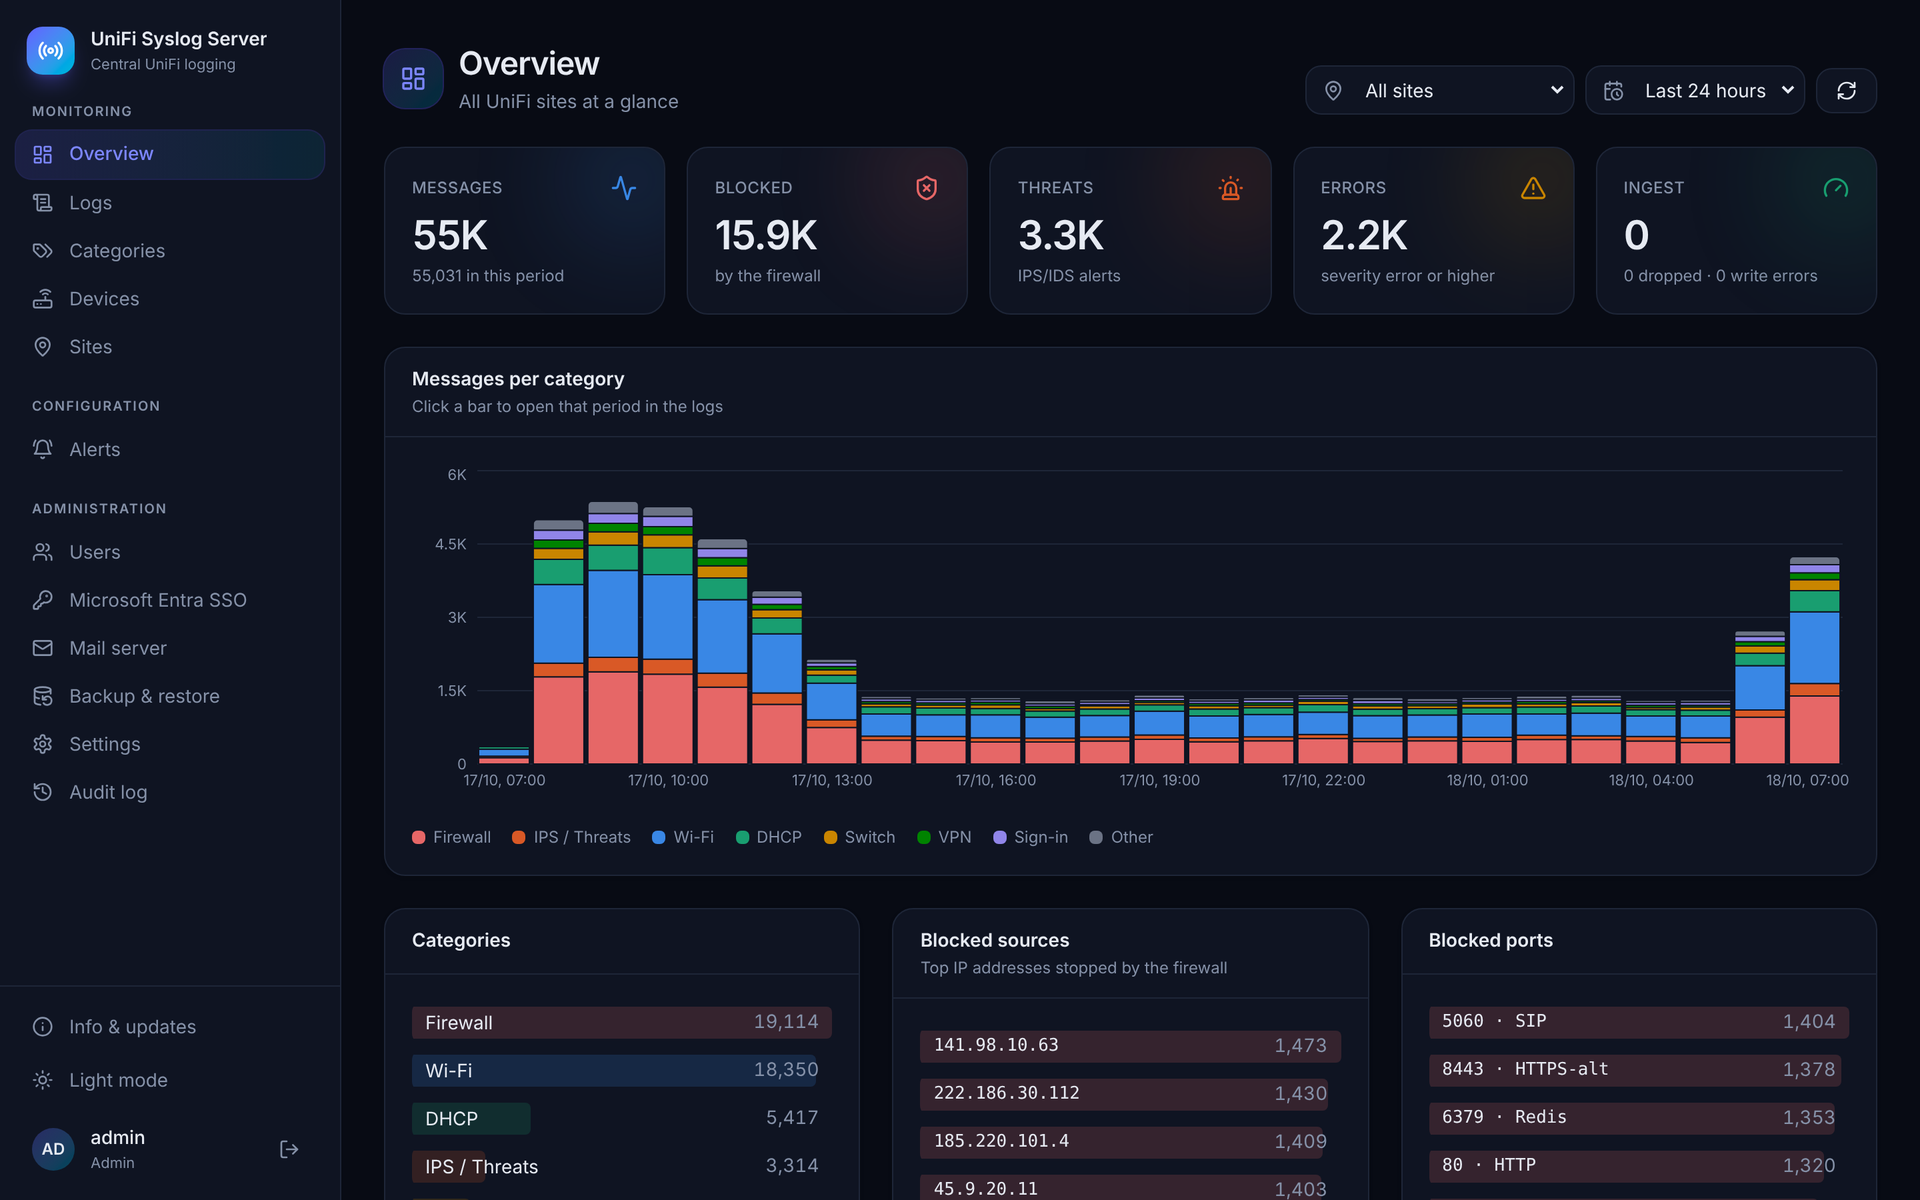
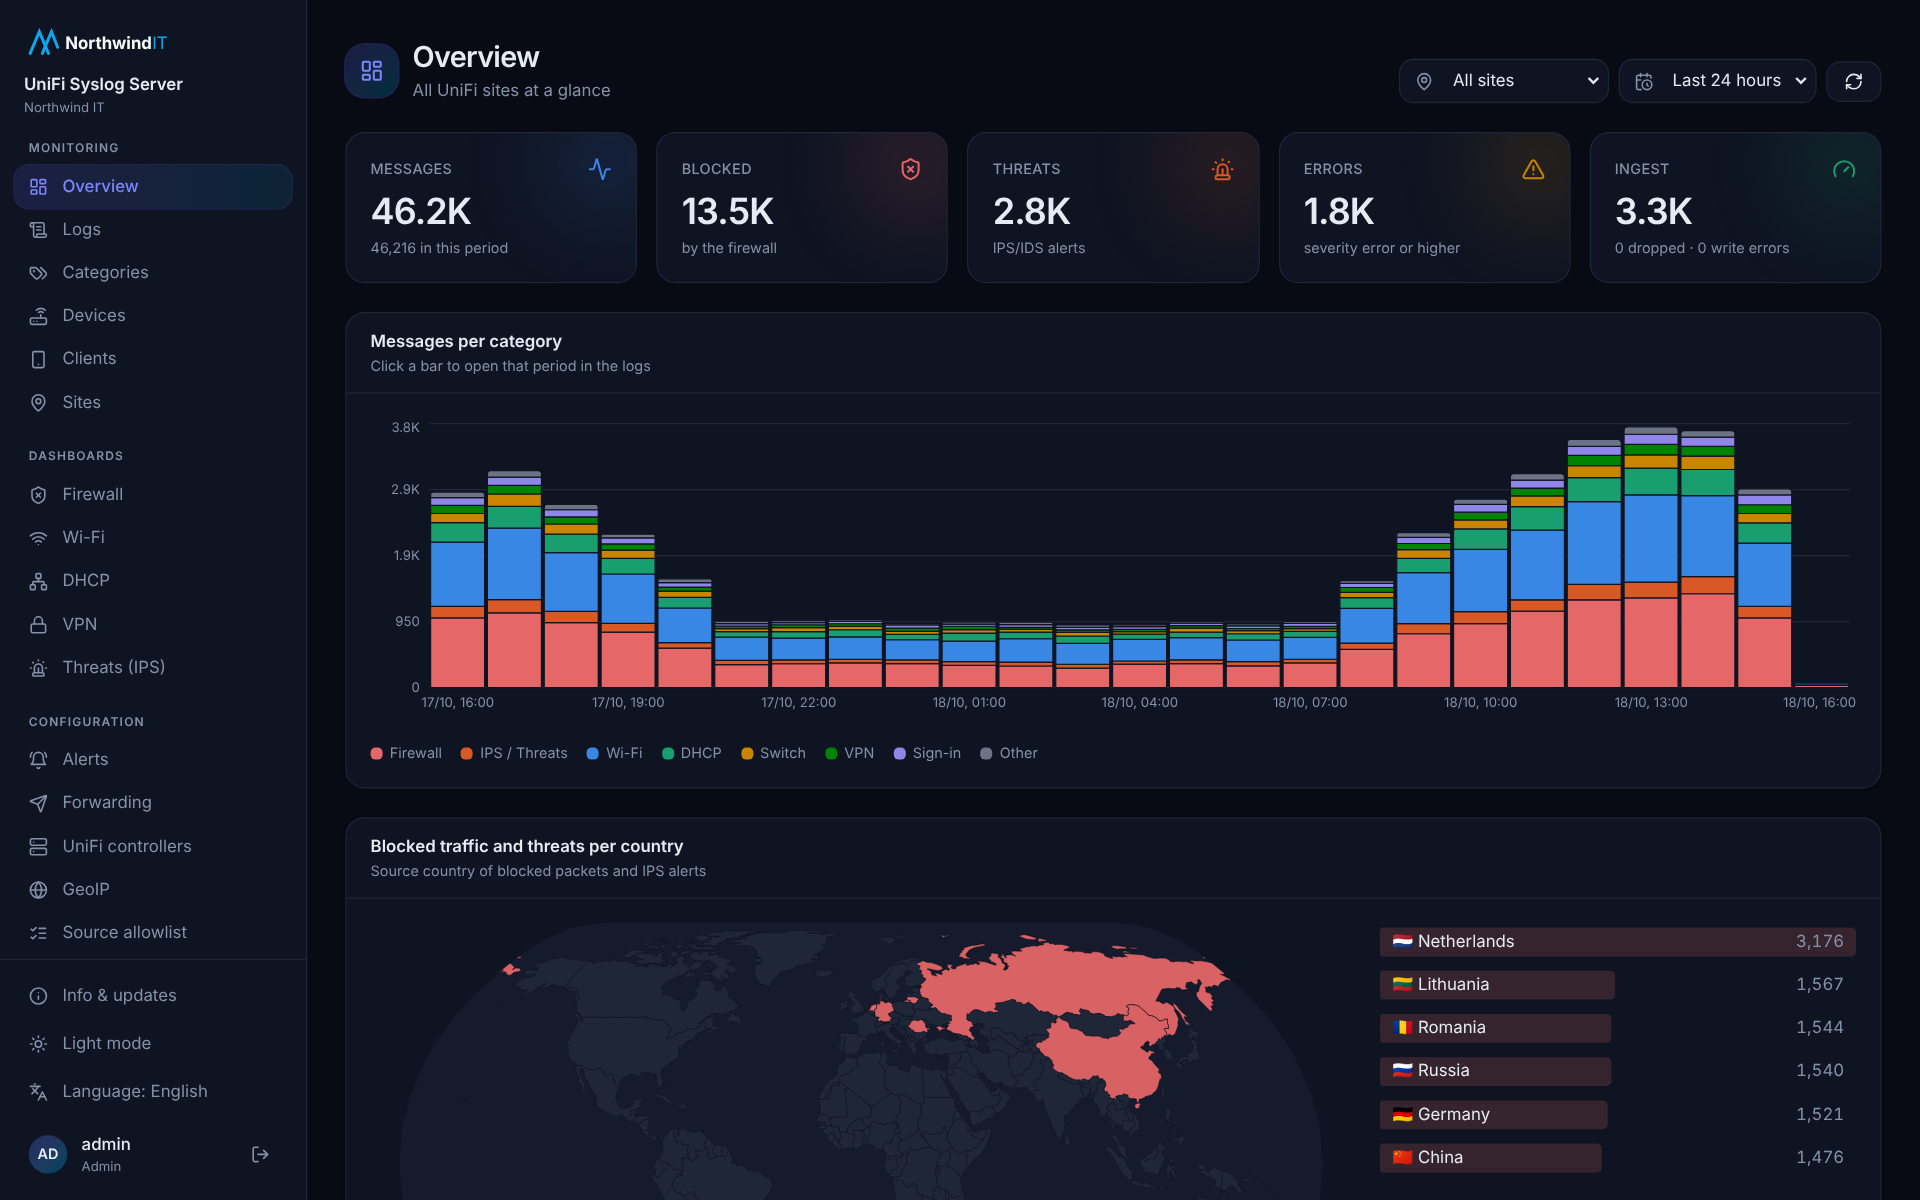
Document all current features in the README with fresh screenshots
Adds a feature overview, an expanded forwarding section (destinations,
filters, reliable delivery, ready-made content) and a feature tour with
new screenshots of every page, taken from simulated traffic of four sites.

Claude-Session: https://claude.ai/code/session_01B3npEG5xe1oDYF5cGAvGyE

diff --git a/README.md b/README.md
@@ -1,48 +1,143 @@
 # UniFi Syslog Server
 
-A central syslog server built specifically for UniFi. All UniFi sites send their syslog to one server, which recognizes firewall, IPS, Wi-Fi, DHCP, DNS, VPN, switch and management messages, enriches them with fields (source, destination, port, rule, client, SSID…) and makes them searchable and visible in a dashboard.
+A central syslog server built specifically for UniFi. All UniFi sites send their syslog to one server, which recognizes firewall, IPS, Wi-Fi, DHCP, DNS, VPN, switch, Protect, Access and management messages, enriches them with names, GeoIP and site information, and makes them searchable in ready-made dashboards. Selected events can be forwarded to **Microsoft Sentinel**, **Elastic**, **Splunk**, **Graylog** and other tools.
 
-- **Receiver**: UDP and TCP on port 514 (RFC3164, RFC5424, RFC6587 framing).
+![Overview dashboard](docs/screenshots/dashboard.png)
+
+**Contents**: [Features](#features) · [Forwarding to Sentinel, Elastic and other tools](#forwarding-to-sentinel-elastic-and-other-tools) · [Feature tour](#feature-tour) · [Installation](#installation) · [Configuring UniFi](#configuring-unifi) · [Users, roles and security](#users-roles-and-security) · [Query language](#query-language) · [Branding](#branding) · [Languages](#languages) · [Backup and restore](#backup-and-restore) · [Updates](#updates-release-channels-and-rollback) · [Command line](#command-line) · [Building from source](#building-from-source) · [Architecture](#architecture)
+
+## Features
+
+**Collect and understand**
+
+- **Receiver**: UDP and TCP on port 514 (RFC3164, RFC5424, RFC6587 framing), with an optional [source allowlist](#users-roles-and-security).
 - **UniFi parser**: device name `model,mac,version`, iptables rule tags (`WAN_IN-D-3001`, `DESCR="..."`), CEF from UniFi Network SIEM, hostapd/stahtd, dnsmasq/kea DHCP, DNS, Suricata IPS, WireGuard/OpenVPN/IPsec, SSH logins, switch ports and `EVT_*` controller codes. UniFi Protect (cameras, smart detections, doorbells), UniFi Access (doors, granted and denied access) and UniFi OS system events (CEF) get their own categories.
 - **UniFi Network API**: connect one or more consoles with an API key. Client and device names are attached to log lines, so you see "Alex's iPhone" and "AP Attic" instead of MAC addresses. Without a controller, names are learnt from DHCP logs. All known names are listed under **Clients**.
 - **GeoIP**: country and AS number (provider) of external IP addresses from DB-IP Lite (no account) or MaxMind GeoLite2, updated automatically, with a world map on the dashboards.
-- **Ready-made dashboards**: Firewall, Wi-Fi (roaming and connection problems), DHCP, VPN (WireGuard, Teleport and site-to-site) and IPS threats.
 - **Storage**: ClickHouse (columnar storage, compression, billions of rows), daily partitions and a configurable retention period. Metadata in SQLite.
-- **Dashboard**: messages per category, blocked sources and ports, IPS signatures, Wi-Fi clients, SSIDs, DHCP clients, devices and sites. Click through to the logs.
-- **Search**: a dedicated query language with fields, CIDR, ranges and wildcards, live tail, and export to CSV and JSON.
-- **Categories**: create your own categories (a saved search with a color) to filter logs.
+
+**Look and search**
+
+- **Overview dashboard**: messages per category, blocked traffic and threats per country, blocked sources and ports, IPS signatures, Wi-Fi clients, SSIDs, DHCP clients, devices and sites. Click through to the logs.
+- **Ready-made dashboards**: Firewall, Wi-Fi (roaming and connection problems), DHCP, VPN (WireGuard, Teleport and site-to-site) and Threats (IPS), each filterable per site and period.
+- **Search**: a dedicated [query language](#query-language) with fields, CIDR, ranges and wildcards, a histogram, live tail, and export to CSV and JSON.
+- **Categories**: your own categories (a saved search with a color) to filter logs, with counters on the Categories page.
+
+**Sites and devices**
+
 - **Sites**: map source IPs to a site, manually or via IP ranges. Sites behind NAT work too. An overview shows, per site, the status, devices and logs, blocks, IPS alerts and errors of the last 24 hours.
-- **Devices**: a persistent inventory of all UniFi devices (by MAC address, so also behind NAT), with a custom name and notes, firmware per model and updated firmware. Devices that have not sent logs for too long are marked as *silent* and, optionally, reported by email, as is their return. **Firmware warnings** flag devices that run older firmware than other devices of the same model, or for which UniFi Network offers an update, optionally by email.
-- **Alerts**: email when a search exceeds a threshold, and optionally an alert record to Microsoft Sentinel or another forwarding destination.
-- **Forwarding**: send selected events to **Microsoft Sentinel** (Logs Ingestion API with a data collection rule, into `UnifiSyslog_CL` or firewall and IPS into `CommonSecurityLog`), **Elasticsearch / Elastic Cloud / OpenSearch** (Bulk API into a data stream, Elastic Common Schema), **Logstash**, **syslog** (RFC 5424 or CEF over UDP, TCP or TLS for Graylog, Wazuh, QRadar…), **Splunk HEC** or a JSON **webhook**. Per destination: filters by category, site, device, severity and saved search; batching, an on-disk queue and automatic retries; a status page with volume, errors and estimated daily cost. Ready-made Sentinel and Kibana content is included, see [docs/FORWARDING.md](docs/FORWARDING.md).
+- **Devices**: a persistent inventory of all UniFi devices (by MAC address, so also behind NAT), with a custom name and notes, firmware per model and updated firmware. Devices that have not sent logs for too long are marked as *silent* and, optionally, reported by email, as is their return.
+- **Firmware warnings** flag devices that run older firmware than other devices of the same model, or for which UniFi Network offers an update, optionally by email.
+
+**Act on events**
+
+- **Forwarding** to Microsoft Sentinel, Elasticsearch / Elastic Cloud / OpenSearch, Logstash, syslog (Graylog, Wazuh, QRadar…), Splunk HEC and JSON webhooks, with per-destination filters, an on-disk queue, retries, volume and cost statistics, and ready-made Sentinel and Kibana content. See [below](#forwarding-to-sentinel-elastic-and-other-tools).
+- **Alerts**: email when a search exceeds a threshold within a time window, and optionally an alert record to Microsoft Sentinel or another forwarding destination.
+
+**Administration and security**
+
 - **Microsoft Entra SSO** (OIDC + PKCE), with Entra groups mapped to roles and sites automatically.
 - **Roles and permissions**: administrator, analyst and read-only viewer, each limited to one or more sites if you want, so customers or branch offices only see their own logs.
-- **Security**: two-factor authentication (TOTP) for local accounts, optionally mandatory; a source allowlist that only accepts syslog from known IP addresses or networks; an audit log of who viewed, changed, exported or restored what.
-- **REST API**: personal API tokens (read-only or read and write) for scripts and integrations, see [docs/API.md](docs/API.md).
+- **Two-factor authentication** (TOTP) for local accounts, optionally mandatory, with recovery codes.
+- **Source allowlist** that only accepts syslog from known IP addresses or networks, and lists rejected senders.
+- **Audit log** of who signed in, viewed, changed, exported or restored what.
+- **REST API** with personal API tokens (read-only or read and write) for scripts and integrations, see [docs/API.md](docs/API.md).
 - **Mail**: your own SMTP server with STARTTLS or TLS, minimum TLS 1.2/1.3, and PLAIN, LOGIN, CRAM-MD5, SCRAM-SHA-256 or OAuth2 (Microsoft 365).
 - **Backup**: full and incremental backups to FTP, FTPS, SCP or a local folder, with scheduling, retention policy and restore from the remote location.
 - **Branding**: your company name and logo (separate light and dark mode variants) and favicon in the menu, on the sign-in page and in e-mails.
-- **Languages**: English and Dutch. Each user picks their own language; Entra SSO users get the language of their Microsoft account. E-mails are sent in the language of the recipient.
-- **Updates**: the Info button shows the version, checks for updates and installs them from the interface. Choose the **Production** channel (stable releases) or **Test** (pre-releases such as `v0.4.0-beta.1`), and roll back to a previous version with one click.
-- The web interface runs on **port 8080**.
+- **Languages**: English and Dutch, per user. Entra SSO users get the language of their Microsoft account. E-mails are sent in the language of the recipient.
+- **Updates**: the Info button shows the version, checks for updates and installs them from the interface. Choose the **Production** channel (stable releases) or **Test** (pre-releases), and roll back to a previous version with one click.
+- **Deployment**: a Proxmox LXC script (Debian 13) and an installer for Debian 13 VMs and physical servers. The web interface runs on **port 8080**.
 
 See the [roadmap](ROADMAP.md) for what is planned next.
 
-## Screenshots
+## Forwarding to Sentinel, Elastic and other tools
 
-![Overview dashboard](docs/screenshots/dashboard.png)
+UniFi Syslog Server can send a filtered copy of your UniFi events to the security and log tools you already use, in parallel with storing them locally. Add destinations under **Configuration → Forwarding**.
+
+![Forwarding page with five destinations](docs/screenshots/forwarding.png)
+
+The page shows, per destination, the events and bytes of the last 24 hours, the estimated volume per day (and, with a price per GB, the estimated monthly cost), the queue, errors, the last delivery and a 24-hour sparkline. The panel on the right offers the ready-made content for Sentinel, Elastic and Logstash as downloads.
+
+### Destinations
+
+| Destination | How it is sent | Format |
+|---|---|---|
+| **Microsoft Sentinel** | Azure Monitor Logs Ingestion API through a data collection endpoint and rule. Entra app registration with a client secret or certificate. | Custom table `UnifiSyslog_CL`; in *split* mode firewall and IPS events go to `CommonSecurityLog` |
+| **Elasticsearch / Elastic Cloud / OpenSearch** | Bulk API into a data stream (default `logs-unifi.syslog-default`), API key or basic auth. **Install index template** puts the mappings in place with one click. | Elastic Common Schema (ECS) |
+| **Logstash** | JSON lines over TCP or TLS, or a JSON array over HTTP | ECS |
+| **Syslog** | UDP, TCP or TLS, octet-counting (RFC 6587) or newline framing. For Graylog, Wazuh, QRadar, ArcSight and others. | RFC 5424 with structured data, or CEF |
+| **Splunk** | HTTP Event Collector (HEC) with a HEC token, index and sourcetype | JSON events |
+| **JSON webhook** | HTTPS POST of a JSON array, with your own headers (for example `Authorization`) | ECS or the app's native field names |
+
+![Choosing a destination type](docs/screenshots/forwarding-add.png)
+
+### Filters: send only what matters
+
+Each destination has its own filter. An event is forwarded only when it matches **all** parts:
+
+- **Categories** (firewall, IPS / threats, Wi-Fi, DHCP, switch, VPN, sign-in, admin, DNS, clients, devices, system, Protect, Access). None selected is all.
+- **Sites** and **devices** (hostname, MAC address or device name). Empty is all.
+- **Minimum severity**, for example *warning or worse*.
+- **Saved search**: one of your [categories](#features).
+- **Extra filter** in the [query language](#query-language), for example `-category:dns` or `country:RU`.
+
+Because only matching events leave the server, you only pay for relevant data in Sentinel or Elastic.
+
+| | |
+|---|---|
+| ![Microsoft Sentinel destination](docs/screenshots/forwarding-sentinel.png)<br>**Microsoft Sentinel**: tenant and client ID, client secret or certificate, the logs ingestion endpoint and DCR immutable ID, and the table mode. Here: firewall, IPS, VPN and sign-in events, with a price per GB for the cost estimate. | ![Elastic Cloud destination](docs/screenshots/forwarding-elastic.png)<br>**Elastic Cloud**: URL, API key and data stream, *Install index template*, and an extra filter that skips DNS. |
+| ![Syslog destination for Graylog](docs/screenshots/forwarding-syslog.png)<br>**Syslog to Graylog**: RFC 5424 over TCP with octet counting, only for two sites and only *warning or worse*. | ![Alert rules with forwarding destinations](docs/screenshots/alerts.png)<br>**Alerts** can send an alert record to Sentinel or a webhook as well as an e-mail. |
+
+### Reliable delivery
+
+- Every destination has its **own queue on disk** (`/var/lib/unify-syslog/forward/<id>`) and its own delivery loop, so a destination that is down never slows down ingestion or the other destinations. Events survive restarts and outages.
+- Events go out in **batches** that suit the destination, and failed sends are **retried** with exponential backoff (up to 5 minutes between attempts) until they succeed. A payload that is too large is split.
+- The **maximum queue size** is configurable per destination; beyond it the oldest events are dropped and counted.
+- **Send test event** checks the settings before you save them.
+
+### Ready-made content
+
+The [integrations](integrations) folder, also downloadable from the Forwarding page, contains:
+
+- **Microsoft Sentinel**: an ARM template for the custom table, data collection endpoint and rule (with the role assignment for the app), KQL hunting queries, a workbook and analytics rules.
+- **Elastic**: the index template (also installed with one click from the interface), Kibana saved objects (data view, searches, visualizations and a dashboard) and Elastic Security detection rules.
+- **Logstash**: a sample pipeline.
+
+See [docs/FORWARDING.md](docs/FORWARDING.md) for the setup per tool.
+
+## Feature tour
+
+The screenshots show simulated UniFi traffic from four sites (`unify-syslog simulate`), with the *Northwind IT* branding as an example.
+
+### Dashboards
 
 ![Firewall dashboard with GeoIP map](docs/screenshots/dashboard-firewall.png)
 
 | | |
 |---|---|
-| ![Logs and search](docs/screenshots/logs.png)<br>**Logs**: search with the query language, histogram, live tail and CSV/JSON export. | ![Sites](docs/screenshots/sites.png)<br>**Sites**: status per site over the last 24 hours, and sender-to-site mapping. |
-| ![Devices](docs/screenshots/devices.png)<br>**Devices**: inventory of gateways, switches and access points with firmware and silent-device monitoring. | ![Categories](docs/screenshots/categories.png)<br>**Categories**: saved searches with a color, used as filters. |
-| ![Backup and restore](docs/screenshots/backup.png)<br>**Backup & restore**: full and incremental backups to FTP, FTPS or SCP. | ![Info and updates](docs/screenshots/info.png)<br>**Info & updates**: current version, release channel, in-app update and rollback. |
-| ![Microsoft Entra SSO](docs/screenshots/sso.png)<br>**Microsoft Entra SSO** with group-to-role mapping. | ![Mail server](docs/screenshots/mail.png)<br>**Mail server**: your own SMTP server with modern TLS and authentication. |
-| ![Light mode](docs/screenshots/dashboard-light.png)<br>**Light mode**. | ![Sign in](docs/screenshots/login.png)<br>**Sign in** page. |
+| ![Wi-Fi dashboard](docs/screenshots/dashboard-wifi.png)<br>**Wi-Fi**: connections, roaming and the clients with connection problems. | ![Threats (IPS) dashboard](docs/screenshots/dashboard-ips.png)<br>**Threats (IPS)**: blocked and detected threats, severity and source countries. |
+| ![VPN dashboard](docs/screenshots/dashboard-vpn.png)<br>**VPN**: WireGuard, Teleport and site-to-site tunnels. | ![Light mode](docs/screenshots/dashboard-light.png)<br>**Light mode**, next to the default dark mode. |
 
-The screenshots show simulated UniFi traffic from four sites (`unify-syslog simulate`).
+### Logs, sites and devices
+
+| | |
+|---|---|
+| ![Logs and search](docs/screenshots/logs.png)<br>**Logs**: search with the query language, histogram, live tail and CSV/JSON export. | ![Sites](docs/screenshots/sites.png)<br>**Sites**: status per site over the last 24 hours, networks per site and sender mapping. |
+| ![Devices](docs/screenshots/devices.png)<br>**Devices**: inventory of gateways, switches and access points with firmware per model and silent-device monitoring. | ![Clients](docs/screenshots/clients.png)<br>**Clients**: names from UniFi Network or learnt from DHCP. |
+| ![Categories](docs/screenshots/categories.png)<br>**Categories**: saved searches with a color and a counter, used as filters. | ![GeoIP](docs/screenshots/geoip.png)<br>**GeoIP**: DB-IP Lite or MaxMind GeoLite2, updated automatically. |
+
+### Administration and security
+
+| | |
+|---|---|
+| ![Users](docs/screenshots/users.png)<br>**Users**: roles, sites per user, 2FA status and language. | ![Microsoft Entra SSO](docs/screenshots/sso.png)<br>**Microsoft Entra SSO** with Entra groups mapped to roles and sites. |
+| ![Security](docs/screenshots/security.png)<br>**Security**: mandatory two-factor authentication and audit log retention. | ![Audit log](docs/screenshots/audit.png)<br>**Audit log**: sign-ins, views, changes, exports and restores, with filters and CSV export. |
+| ![Source allowlist](docs/screenshots/allowlist.png)<br>**Source allowlist**: only accept syslog from known networks; rejected senders can be allowed with one click. | ![My account](docs/screenshots/account.png)<br>**My account**: password, two-factor authentication and API tokens. |
+| ![Mail server](docs/screenshots/mail.png)<br>**Mail server**: your own SMTP server with modern TLS and authentication, including OAuth2 for Microsoft 365. | ![Backup and restore](docs/screenshots/backup.png)<br>**Backup & restore**: scheduled full and incremental backups to SCP, FTPS, FTP or a local folder. |
+| ![Branding](docs/screenshots/branding.png)<br>**Branding**: company name, logos for light and dark mode and a favicon. | ![Info and updates](docs/screenshots/info.png)<br>**Info & updates**: current version, release channel, update check, in-app update and rollback. |
+
+![Sign in](docs/screenshots/login.png)
 
 ## Installation
 
@@ -183,18 +278,6 @@ Configure backups under **Backup** in the web interface.
 - **Restore**: choose a backup at the remote location. The server fetches the whole chain (the full backup plus the incremental backups), restores the logs and restarts.
 
 A backup contains the encryption key, so store backups in a trusted location.
-
-## Forwarding to Sentinel, Elastic and other tools
-
-Add destinations under **Forwarding**. Each destination has its own filter (categories, sites, devices, minimum severity, a saved search and an extra query; all must match), its own queue on disk and its own delivery loop, so a destination that is down never slows down ingestion or the other destinations. Events wait on disk until they are delivered; beyond the configured queue size the oldest are dropped and counted. **Send test event** checks the settings before you save them.
-
-The [integrations](integrations) folder, also downloadable from the Forwarding page, contains:
-
-- **Microsoft Sentinel**: an ARM template for the custom table, data collection endpoint and rule (with the role assignment for the app), KQL hunting queries, a workbook and analytics rules.
-- **Elastic**: the index template (also installed with one click from the interface), Kibana saved objects (data view, searches, visualizations and a dashboard) and Elastic Security detection rules.
-- **Logstash**: a sample pipeline.
-
-See [docs/FORWARDING.md](docs/FORWARDING.md) for the setup per tool.
 
 ## Updates, release channels and rollback
 

diff --git a/docs/FORWARDING.md b/docs/FORWARDING.md
@@ -6,6 +6,8 @@ Under **Forwarding** you send UniFi events on to a SIEM or log tool, in parallel
 - [Elasticsearch / Elastic Cloud / OpenSearch](../integrations/elastic/README.md): index template, Kibana dashboard, detection rules
 - [Logstash](../integrations/logstash/README.md): sample pipeline
 
+![Forwarding page](screenshots/forwarding.png)
+
 ## Destinations
 
 | Type | How it is sent | Format |
